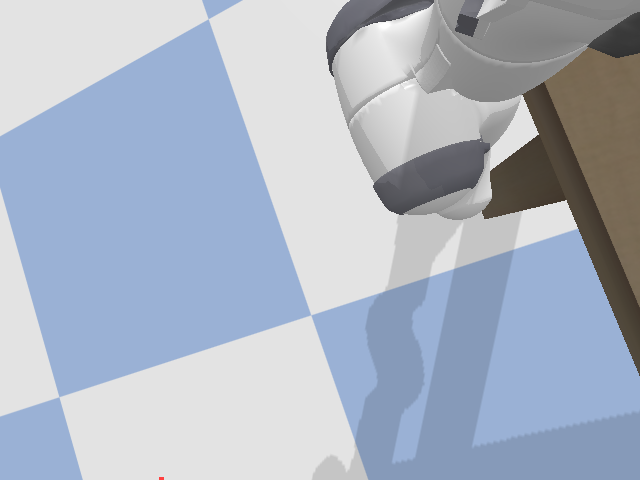
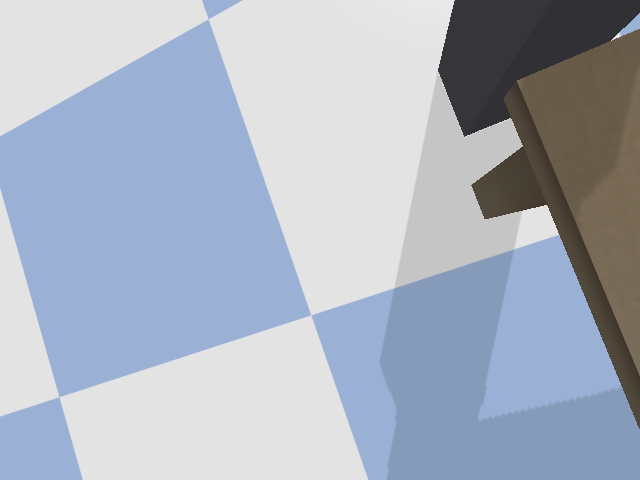
feat: update env and add mount for arms

Changed region(s): [[0.4688, 0.0, 1.0, 1.0]]

diff --git a/robot_chef/simulation.py b/robot_chef/simulation.py
@@ -1,4 +1,12 @@
-"""Simulation harness for the Robot Chef pouring task."""
+"""Simulation harness for the Robot Chef pouring task.
+
+- Builds table, bowl, pan and a stove support block.
+- Uses AABB-based snapping so the stove sits on the table, the pan sits on the stove,
+  and the bowl sits on the table (deterministic contact layout).
+- Adds two fixed pedestals ("mounts") and places the Panda arms on their tops at
+  the table's top-Z, with XY positions computed from the table AABB + a safety margin,
+  so mounts never intersect the table, regardless of scene.world_yaw_deg.
+"""
 
 from __future__ import annotations
 
@@ -19,6 +27,10 @@ from .env.particles import ParticleSet, spawn_spheres
 LOGGER = logging.getLogger(__name__)
 
 
+# --------------------------------------------------------------------------- #
+# Data containers
+
+
 @dataclass
 class ArmState:
     body_id: int
@@ -29,6 +41,10 @@ class ArmState:
     joint_upper: Tuple[float, ...]
     joint_ranges: Tuple[float, ...]
     joint_rest: Tuple[float, ...]
+
+
+# --------------------------------------------------------------------------- #
+# Simulation
 
 
 class RobotChefSimulation:
@@ -50,9 +66,30 @@ class RobotChefSimulation:
         self.objects: Dict[str, Dict[str, object]] = {}
         self.particles: Optional[ParticleSet] = None
 
+        # Build environment (table, bowl, pan, stove) and snap with AABBs
         self._setup_environment()
-        self.left_arm = self._spawn_arm(base_position=[-0.25, 0.55, 0.0], base_orientation=p.getQuaternionFromEuler([0.0, 0.0, math.pi / 2.0]))
-        self.right_arm = self._spawn_arm(base_position=[-0.25, -0.55, 0.0], base_orientation=p.getQuaternionFromEuler([0.0, 0.0, -math.pi / 2.0]))
+
+        # Pedestals with collision-safe placement and arm mounting
+        left_mount_id, right_mount_id, z_table = self._place_pedestals_clear_of_table(
+            side=0.20,   # 20 cm square column
+            margin=0.08  # 8 cm clearance from table edges
+        )
+        self.objects["left_mount"] = {"body_id": left_mount_id, "top_z": z_table}
+        self.objects["right_mount"] = {"body_id": right_mount_id, "top_z": z_table}
+
+        # Mount Panda arms on pedestal tops (useFixedBase=True), aligned with table yaw
+        yaw = math.radians(self.recipe.scene.world_yaw_deg)
+        left_base_pos, _ = p.getBasePositionAndOrientation(left_mount_id, physicsClientId=self.client_id)
+        right_base_pos, _ = p.getBasePositionAndOrientation(right_mount_id, physicsClientId=self.client_id)
+
+        self.left_arm = self._spawn_arm(
+            base_position=[left_base_pos[0], left_base_pos[1], z_table],
+            base_orientation=p.getQuaternionFromEuler([0.0, 0.0, yaw + math.pi / 2.0]),
+        )
+        self.right_arm = self._spawn_arm(
+            base_position=[right_base_pos[0], right_base_pos[1], z_table],
+            base_orientation=p.getQuaternionFromEuler([0.0, 0.0, yaw - math.pi / 2.0]),
+        )
 
         # Default active arm is the right arm for pouring motions.
         self._active_arm_name = "right"
@@ -67,8 +104,9 @@ class RobotChefSimulation:
         plane_id = p.loadURDF("plane.urdf", physicsClientId=self.client_id)
         self.objects["plane"] = {"body_id": plane_id}
 
-        # Position the table so that its surface aligns with z ~ 0.75 (matching recipe poses).
-        table_height_offset = 0.0
+        # Position the table; we’ll snap objects to its true top using AABB.
+        # The table URDF origin is commonly at the ground; we lift/pose it here.
+        table_height_offset = -0.05
         table_pos = [0.5, 0.0, table_height_offset]
         table_orientation = p.getQuaternionFromEuler([0.0, 0.0, math.radians(self.recipe.scene.world_yaw_deg)])
         table_id = p.loadURDF(
@@ -80,6 +118,7 @@ class RobotChefSimulation:
         )
         self.objects["table"] = {"body_id": table_id, "base_position": table_pos}
 
+        # Create bowl and pan at configured poses (apply world yaw).
         bowl_pose = self._apply_world_yaw(self.recipe.bowl_pose)
         bowl_id, bowl_props = bowl_factory.create_rice_bowl(self.client_id, pose=bowl_pose)
         self.objects["bowl"] = {"body_id": bowl_id, "properties": bowl_props, "pose": bowl_pose}
@@ -87,6 +126,153 @@ class RobotChefSimulation:
         pan_pose = self._apply_world_yaw(self.recipe.pan_pose)
         pan_id, pan_props = pan_factory.create_pan(self.client_id, pose=pan_pose)
         self.objects["pan"] = {"body_id": pan_id, "properties": pan_props, "pose": pan_pose}
+
+        # Build a stove “support block” sized from pan props (visual + contact stability).
+        stove_half_xy = float(pan_props["half_side"]) + float(pan_props["wall_thickness"]) + 0.02
+        stove_height = float(max(0.01, float(pan_props["depth"]) * 0.9))
+        stove_half_extent = (stove_half_xy, stove_half_xy, stove_height / 2.0)
+
+        # Initial pose; we’ll snap to table, then rest pan on stove.
+        stove_pose = Pose6D(
+            x=pan_pose.x,
+            y=pan_pose.y,
+            z=pan_pose.z - stove_height,  # provisional, corrected by snapping
+            roll=0.0,
+            pitch=0.0,
+            yaw=pan_pose.yaw,
+        )
+        stove_orientation = p.getQuaternionFromEuler(stove_pose.orientation_rpy)
+        stove_collision = p.createCollisionShape(
+            p.GEOM_BOX,
+            halfExtents=stove_half_extent,
+            physicsClientId=self.client_id,
+        )
+        stove_visual = p.createVisualShape(
+            p.GEOM_BOX,
+            halfExtents=stove_half_extent,
+            rgbaColor=[0.96, 0.96, 0.96, 1.0],
+            physicsClientId=self.client_id,
+        )
+        stove_id = p.createMultiBody(
+            baseMass=0.0,
+            baseCollisionShapeIndex=stove_collision,
+            baseVisualShapeIndex=stove_visual,
+            basePosition=[stove_pose.x, stove_pose.y, stove_pose.z],
+            baseOrientation=stove_orientation,
+            physicsClientId=self.client_id,
+        )
+        p.changeDynamics(
+            stove_id,
+            -1,
+            lateralFriction=1.1,
+            spinningFriction=0.9,
+            rollingFriction=0.6,
+            physicsClientId=self.client_id,
+        )
+        self.objects["stove_block"] = {
+            "body_id": stove_id,
+            "half_extents": stove_half_extent,
+            "pose": stove_pose,
+        }
+
+        # --- Deterministic placement using AABBs ---
+        z_table = self._get_table_top_z()
+
+        # 1) Stove rests on TABLE
+        self._place_on_support(stove_id, support_top_z=z_table)
+
+        # 2) Pan rests on STOVE
+        stove_top = self._get_body_top_z(stove_id)
+        self._place_on_support(pan_id, support_top_z=stove_top)
+
+        # 3) Bowl rests on TABLE
+        self._place_on_support(bowl_id, support_top_z=z_table)
+
+        # Expose pan base height after snapping (useful for later metrics).
+        pan_aabb_min, _ = p.getAABB(pan_id, physicsClientId=self.client_id)
+        pan_props["base_height"] = float(pan_aabb_min[2])
+
+        # Let contacts settle for one frame (visual nicety).
+        p.stepSimulation(physicsClientId=self.client_id)
+
+    # ---------- Mounts / pedestals with clearance ---------- #
+
+    def _get_table_footprint(self) -> Tuple[Tuple[float, float], float, float, float, float]:
+        """
+        Returns (center_xy, half_len_x, half_len_y, top_z, yaw_rad) for the table.
+        half_len_x/half_len_y are from the world-aligned AABB (good enough for clearance).
+        """
+        tbl = self.objects["table"]["body_id"]
+        (aabb_min, aabb_max) = p.getAABB(tbl, physicsClientId=self.client_id)
+        cx = 0.5 * (aabb_min[0] + aabb_max[0])
+        cy = 0.5 * (aabb_min[1] + aabb_max[1])
+        half_len_x = 0.5 * (aabb_max[0] - aabb_min[0])
+        half_len_y = 0.5 * (aabb_max[1] - aabb_min[1])
+        top_z = float(aabb_max[2])
+        yaw = math.radians(self.recipe.scene.world_yaw_deg)
+        return (cx, cy), half_len_x, half_len_y, top_z, yaw
+
+    def _table_local_axes(self, yaw: float) -> Tuple[Tuple[float, float], Tuple[float, float]]:
+        """
+        Unit axes of the table frame projected in world XY.
+        +x_table points 'forward', +y_table to the table's left.
+        """
+        ux = (math.cos(yaw), math.sin(yaw))           # +x_table in world
+        uy = (-math.sin(yaw), math.cos(yaw))          # +y_table in world
+        return ux, uy
+
+    def _place_pedestals_clear_of_table(self, side: float = 0.20, margin: float = 0.08) -> Tuple[int, int, float]:
+        """
+        Compute two mount positions 'behind' the table (−x_table direction)
+        with clearance = margin + pedestal_half. Builds pedestals and returns
+        (left_mount_id, right_mount_id, top_z).
+        """
+        (cx, cy), half_x, half_y, top_z, yaw = self._get_table_footprint()
+        ux, uy = self._table_local_axes(yaw)
+
+        ped_half = side * 0.5
+        # Distance behind back edge (−x_table) to avoid collisions
+        back_clear = half_x + margin + ped_half
+
+        # Lateral (±y_table) placement near the table edges with clearance
+        lat_clear = max(0.0, half_y - margin - ped_half)
+        # World XY for left/right mounts
+        # left = +y_table; right = −y_table
+        left_xy = (cx - ux[0] * back_clear + uy[0] * lat_clear,
+                   cy - ux[1] * back_clear + uy[1] * lat_clear)
+        right_xy = (cx - ux[0] * back_clear - uy[0] * lat_clear,
+                    cy - ux[1] * back_clear - uy[1] * lat_clear)
+
+        left_id = self._spawn_pedestal("left_mount", xy=left_xy, top_z=top_z, side=side)
+        right_id = self._spawn_pedestal("right_mount", xy=right_xy, top_z=top_z, side=side)
+        return left_id, right_id, top_z
+
+    def _spawn_pedestal(self, name: str, xy: Tuple[float, float], top_z: float, side: float = 0.24) -> int:
+        """
+        Create a fixed mount (square column) from floor to top_z at world XY.
+        The column is a box of size (side, side, height). Uses collision + visual.
+        """
+        height = max(0.05, float(top_z))  # from z=0 (floor) up to top_z
+        half_extents = (side / 2.0, side / 2.0, height / 2.0)
+        col_id = p.createCollisionShape(p.GEOM_BOX, halfExtents=half_extents, physicsClientId=self.client_id)
+        vis_id = p.createVisualShape(
+            p.GEOM_BOX,
+            halfExtents=half_extents,
+            rgbaColor=[0.35, 0.35, 0.38, 1.0],  # neutral “metallic” tone
+            physicsClientId=self.client_id,
+        )
+        body_id = p.createMultiBody(
+            baseMass=0.0,
+            baseCollisionShapeIndex=col_id,
+            baseVisualShapeIndex=vis_id,
+            basePosition=[float(xy[0]), float(xy[1]), half_extents[2]],
+            baseOrientation=[0.0, 0.0, 0.0, 1.0],
+            physicsClientId=self.client_id,
+        )
+        p.changeDynamics(body_id, -1, lateralFriction=1.0, spinningFriction=0.6, physicsClientId=self.client_id)
+        return body_id
+
+    # ---------- Arm spawning ---------- #
 
     def _spawn_arm(self, base_position: Sequence[float], base_orientation: Sequence[float]) -> ArmState:
         flags = p.URDF_USE_SELF_COLLISION | p.URDF_USE_SELF_COLLISION_EXCLUDE_ALL_PARENTS
@@ -109,19 +295,20 @@ class RobotChefSimulation:
             joint_type = info[2]
             if joint_type != p.JOINT_REVOLUTE:
                 continue
+            lower = float(info[8])
+            upper = float(info[9])
             joint_indices.append(j)
-            joint_lower.append(info[8])
-            joint_upper.append(info[9])
-            joint_ranges.append(info[9] - info[8])
-            joint_rest.append((info[8] + info[9]) * 0.5 if info[8] < info[9] else 0.0)
+            joint_lower.append(lower)
+            joint_upper.append(upper)
+            joint_ranges.append((upper - lower) if upper > lower else 2.0 * math.pi)
+            joint_rest.append((lower + upper) * 0.5 if upper > lower else 0.0)
             if len(joint_indices) == 7:
                 break
 
         if len(joint_indices) != 7:
             raise RuntimeError("Expected Franka Panda arm with 7 revolute joints")
 
-        ee_link = p.getBodyInfo(arm_id, physicsClientId=self.client_id)[0].decode()
-        # Panda end-effector link is named "panda_hand". Find its index.
+        # Find Panda end-effector link "panda_hand".
         ee_link_index = None
         for j in range(p.getNumJoints(arm_id, physicsClientId=self.client_id)):
             info = p.getJointInfo(arm_id, j, physicsClientId=self.client_id)
@@ -132,6 +319,7 @@ class RobotChefSimulation:
             LOGGER.warning("panda_hand link not found; defaulting to final arm joint link")
             ee_link_index = joint_indices[-1]
 
+        # Finger joints.
         finger_joint_names = {"panda_finger_joint1", "panda_finger_joint2"}
         fingers: List[int] = []
         for j in range(p.getNumJoints(arm_id, physicsClientId=self.client_id)):
@@ -141,6 +329,7 @@ class RobotChefSimulation:
         if len(fingers) != 2:
             raise RuntimeError("Failed to locate Panda finger joints")
 
+        # Initialize arm joints.
         for idx in joint_indices:
             p.resetJointState(arm_id, idx, targetValue=0.0, targetVelocity=0.0, physicsClientId=self.client_id)
             p.setJointMotorControl2(
@@ -248,16 +437,16 @@ class RobotChefSimulation:
             LOGGER.warning("Cannot spawn particles before bowl is created")
             return None
         bowl_id = bowl_entry["body_id"]
-        position, orientation = p.getBasePositionAndOrientation(bowl_id, physicsClientId=self.client_id)
+        position, _ = p.getBasePositionAndOrientation(bowl_id, physicsClientId=self.client_id)
         bowl_props = bowl_entry["properties"]
         particle_set = spawn_spheres(
             client_id=self.client_id,
             count=count,
             radius=radius,
             center=position,
-            bowl_radius=bowl_props["inner_radius"],
-            bowl_height=bowl_props["inner_height"],
-            spawn_height=bowl_props["spawn_height"],
+            bowl_radius=float(bowl_props["inner_radius"]),
+            bowl_height=float(bowl_props["inner_height"]),
+            spawn_height=float(bowl_props["spawn_height"]),
             seed=seed,
         )
         self.particles = particle_set
@@ -274,9 +463,9 @@ class RobotChefSimulation:
         total, inside, ratio = self.particles.count_in_pan(
             client_id=self.client_id,
             center=center,
-            inner_radius=props["inner_radius"],
-            base_height=props["base_height"],
-            lip_height=props["lip_height"],
+            inner_radius=float(props["inner_radius"]),
+            base_height=float(props["base_height"]),
+            lip_height=float(props["lip_height"]),
         )
         return {"total": total, "in_pan": inside, "transfer_ratio": ratio}
 
@@ -309,6 +498,37 @@ class RobotChefSimulation:
             pitch=pose.pitch,
             yaw=pose.yaw + yaw,
         )
+
+    def _get_table_top_z(self) -> float:
+        """Return the world Z of the table's top using its AABB."""
+        tbl = self.objects.get("table")
+        if not tbl:
+            return 0.0
+        aabb_min, aabb_max = p.getAABB(tbl["body_id"], physicsClientId=self.client_id)
+        return float(aabb_max[2])
+
+    def _get_body_top_z(self, body_id: int) -> float:
+        aabb_min, aabb_max = p.getAABB(body_id, physicsClientId=self.client_id)
+        return float(aabb_max[2])
+
+    def _place_on_support(self, body_id: int, support_top_z: float) -> None:
+        """Translate body along +Z so its bottom AABB touches support_top_z."""
+        aabb_min, _ = p.getAABB(body_id, physicsClientId=self.client_id)
+        bottom_z = float(aabb_min[2])
+        dz = support_top_z - bottom_z
+        if abs(dz) < 1e-4:
+            return
+        base_pos, base_orn = p.getBasePositionAndOrientation(body_id, physicsClientId=self.client_id)
+        p.resetBasePositionAndOrientation(
+            body_id,
+            (float(base_pos[0]), float(base_pos[1]), float(base_pos[2]) + dz),
+            base_orn,
+            physicsClientId=self.client_id,
+        )
+
+    # Backwards-compatible alias (used by older code)
+    def _place_on_table(self, body_id: int, z_table: float) -> None:
+        self._place_on_support(body_id, support_top_z=z_table)
 
 
 __all__ = ["RobotChefSimulation", "ArmState"]

diff --git a/robot_chef/tasks/pour_bowl_into_pan.py b/robot_chef/tasks/pour_bowl_into_pan.py
@@ -122,11 +122,21 @@ class PourBowlIntoPanAndReturn:
         if cfg.particles > 0:
             sim.spawn_rice_particles(cfg.particles, seed=cfg.seed)
         bowl_obj = sim.objects.get("bowl")
-        print('bowl_obj:', bowl_obj)
         if bowl_obj is None:
             raise RuntimeError("bowl not found in sim.objects; available keys: "
                             + ", ".join(sim.objects.keys()))
         self._bowl_uid = bowl_obj['body_id']
+        
+        pan_obj = sim.objects.get("pan")
+        if pan_obj is None:
+            raise RuntimeError("pan_obj not found in sim.objects; available keys: " + ", ".join(sim.objects.keys()))
+        self._pan_uid = pan_obj['body_id']
+        
+        stove_obj = sim.objects.get("stove_block")
+        if stove_obj is None:
+            raise RuntimeError("stove_obj not found in sim.objects; available keys: " + ", ".join(sim.objects.keys()))
+        self._stove_block_uid = stove_obj['body_id']
+        
 
     def plan(self, sim: RobotChefSimulation, cfg: PourTaskConfig) -> bool:
         # The dynamic plan depends on perception; defer heavy lifting to execute().
